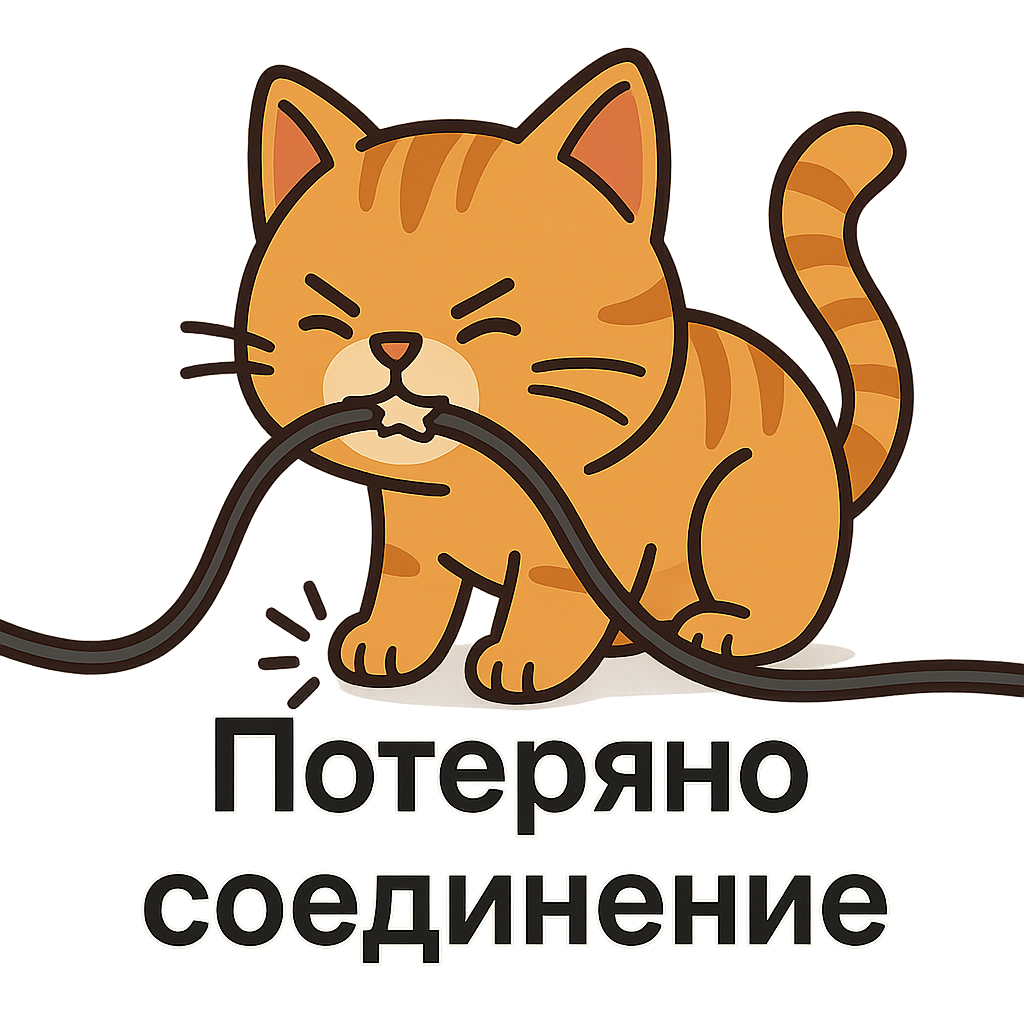
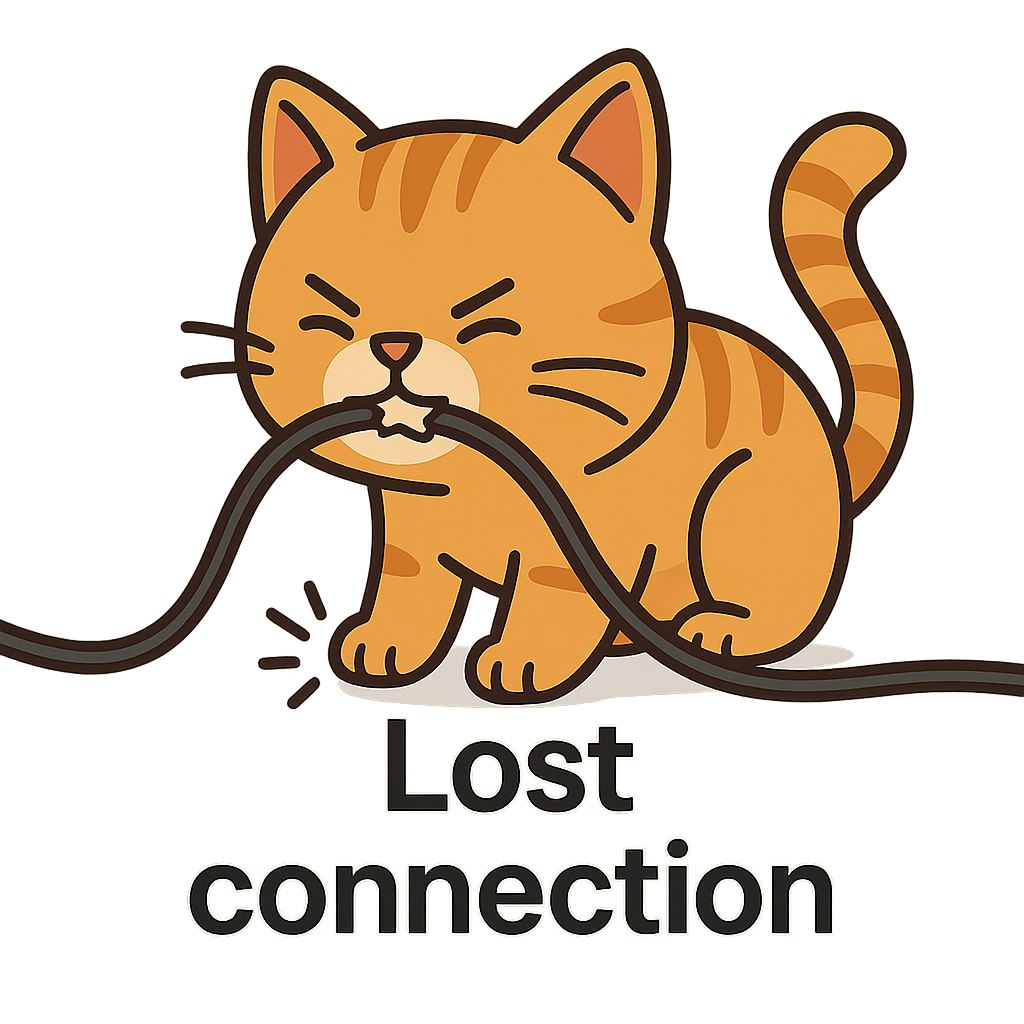
fixes format

diff --git a/test/cat_feed_cubit_test.dart b/test/cat_feed_cubit_test.dart
@@ -22,7 +22,7 @@ void main() {
   late MockWatchLikedCats mockWatchLikedCats;
   late CatFeedCubit cubit;
 
-  final _fakeCat = Cat(
+  final fakeCat = Cat(
     id: 'fake_id_1',
     imageUrl: 'https://example.com/fake.png',
     width: 200,
@@ -31,8 +31,8 @@ void main() {
     breed: null,
   );
 
-  final _fakeLikedCat = LikedCat(
-    cat: _fakeCat,
+  final fakeLikedCat = LikedCat(
+    cat: fakeCat,
     likedAt: DateTime(2025, 6, 5, 12, 0, 0),
   );
 
@@ -78,7 +78,7 @@ void main() {
       final emitted = <CatFeedState>[];
       final sub = cubit.stream.listen(emitted.add);
 
-      controller.add([_fakeLikedCat, _fakeLikedCat]);
+      controller.add([fakeLikedCat, fakeLikedCat]);
       await Future.delayed(const Duration(milliseconds: 100));
 
       expect(emitted.last.likes, 2);
@@ -92,7 +92,7 @@ void main() {
     blocTest<CatFeedCubit, CatFeedState>(
       'успешно возвращается кот → [CatFeedLoading, CatFeedLoaded]',
       build: () {
-        when(mockGetRandomCat.call()).thenAnswer((_) async => _fakeCat);
+        when(mockGetRandomCat.call()).thenAnswer((_) async => fakeCat);
         return cubit;
       },
       act: (c) => c.loadNext(),
@@ -128,13 +128,13 @@ void main() {
 
   group('likeCurrent()', () {
     setUp(() {
-      when(mockGetRandomCat.call()).thenAnswer((_) async => _fakeCat);
+      when(mockGetRandomCat.call()).thenAnswer((_) async => fakeCat);
     });
 
     blocTest<CatFeedCubit, CatFeedState>(
       'если current != null и _busy == false, вызывается LikeCat и затем один loadNext',
       build: () {
-        when(mockGetRandomCat.call()).thenAnswer((_) async => _fakeCat);
+        when(mockGetRandomCat.call()).thenAnswer((_) async => fakeCat);
         return cubit;
       },
       act: (c) async {
@@ -142,9 +142,8 @@ void main() {
         clearInteractions(mockLikeCat);
         clearInteractions(mockGetRandomCat);
 
-        when(mockLikeCat.call(_fakeCat))
-            .thenAnswer((_) async => Future.value());
-        when(mockGetRandomCat.call()).thenAnswer((_) async => _fakeCat);
+        when(mockLikeCat.call(fakeCat)).thenAnswer((_) async => Future.value());
+        when(mockGetRandomCat.call()).thenAnswer((_) async => fakeCat);
 
         await c.likeCurrent();
       },
@@ -156,7 +155,7 @@ void main() {
         isA<CatFeedLoaded>(),
       ],
       verify: (_) {
-        verify(mockLikeCat.call(_fakeCat)).called(1);
+        verify(mockLikeCat.call(fakeCat)).called(1);
         verify(mockGetRandomCat.call()).called(1);
       },
     );
@@ -164,13 +163,13 @@ void main() {
 
   group('dislikeCurrent()', () {
     setUp(() {
-      when(mockGetRandomCat.call()).thenAnswer((_) async => _fakeCat);
+      when(mockGetRandomCat.call()).thenAnswer((_) async => fakeCat);
     });
 
     blocTest<CatFeedCubit, CatFeedState>(
       'если current != null и _busy == false, вызывается DislikeCat и затем один loadNext',
       build: () {
-        when(mockGetRandomCat.call()).thenAnswer((_) async => _fakeCat);
+        when(mockGetRandomCat.call()).thenAnswer((_) async => fakeCat);
         return cubit;
       },
       act: (c) async {
@@ -178,8 +177,10 @@ void main() {
         clearInteractions(mockDislikeCat);
         clearInteractions(mockGetRandomCat);
 
-        when(mockDislikeCat.call(_fakeCat)).thenAnswer((_) async {});
-        when(mockGetRandomCat.call()).thenAnswer((_) async => _fakeCat);
+        when(mockDislikeCat.call(fakeCat)).thenAnswer((_) async {
+          return;
+        });
+        when(mockGetRandomCat.call()).thenAnswer((_) async => fakeCat);
 
         await c.dislikeCurrent();
       },
@@ -191,7 +192,7 @@ void main() {
         isA<CatFeedLoaded>(),
       ],
       verify: (_) {
-        verify(mockDislikeCat.call(_fakeCat)).called(1);
+        verify(mockDislikeCat.call(fakeCat)).called(1);
         verify(mockGetRandomCat.call()).called(1);
       },
     );

diff --git a/lib/presentation/screens/home_screen.dart b/lib/presentation/screens/home_screen.dart
@@ -1,3 +1,5 @@
+import 'dart:async';
+
 import 'package:catinder/presentation/cubits/cat_feed_cubit.dart';
 import 'package:catinder/presentation/cubits/connectivity_cubit.dart';
 import 'package:flutter/material.dart';
@@ -20,6 +22,7 @@ class _HomeScreenState extends State<HomeScreen>
   late final AnimationController _heartCtrl;
   late final Animation<double> _heartAnim;
   int _prevLikes = 0;
+  StreamSubscription<ConnectivityStatus>? _connectivitySub;
 
   @override
   void initState() {
@@ -43,12 +46,17 @@ class _HomeScreenState extends State<HomeScreen>
     ]).animate(_heartCtrl);
 
     WidgetsBinding.instance.addPostFrameCallback((_) {
-      context.read<ConnectivityCubit>().stream.listen((status) {
+      final connectivityCubit = context.read<ConnectivityCubit>();
+      final catFeedCubit = context.read<CatFeedCubit>();
+
+      _connectivitySub = connectivityCubit.stream.listen((status) {
+        if (!mounted) return;
+
         if (status == ConnectivityStatus.offline) {
-          _showSnackBar(message: 'Нет соединения с интернетом');
+          _showSnackBar(message: 'Internet connection lost');
         } else {
-          _showSnackBar(message: 'Соединение восстановлено');
-          context.read<CatFeedCubit>().loadNext();
+          _showSnackBar(message: 'Connection restored');
+          catFeedCubit.loadNext();
         }
       });
     });
@@ -57,10 +65,13 @@ class _HomeScreenState extends State<HomeScreen>
   @override
   void dispose() {
     _heartCtrl.dispose();
+    _connectivitySub?.cancel();
     super.dispose();
   }
 
   void _showSnackBar({required String message}) {
+    if (!mounted) return;
+
     final messenger = ScaffoldMessenger.of(context);
     messenger
       ..hideCurrentSnackBar()
@@ -143,6 +154,8 @@ class _HomeScreenState extends State<HomeScreen>
           else
             BlocConsumer<CatFeedCubit, CatFeedState>(
               listener: (context, state) {
+                if (!mounted) return;
+
                 if (state.likes > _prevLikes) {
                   _heartCtrl.forward().then((_) => _heartCtrl.reset());
                 }
@@ -268,7 +281,7 @@ class _HomeScreenState extends State<HomeScreen>
             ),
             const SizedBox(height: 24),
             const Text(
-              'Потеряно соединение с интернетом',
+              'Network connection lost',
               style: TextStyle(
                 fontSize: 18,
                 fontWeight: FontWeight.bold,
@@ -277,7 +290,7 @@ class _HomeScreenState extends State<HomeScreen>
             ),
             const SizedBox(height: 12),
             const Text(
-              'Пожалуйста, проверьте ваше интернет-соединение и нажмите «Retry».',
+              'Please, check your network-connection and tap «Retry».',
               style: TextStyle(fontSize: 16, color: Colors.grey),
               textAlign: TextAlign.center,
             ),

diff --git a/test/liked_cat_cubit_test.dart b/test/liked_cat_cubit_test.dart
@@ -18,7 +18,7 @@ void main() {
   late MockRemoveLike mockRemoveLike;
   late LikedCatsCubit cubit;
 
-  final _cat1 = Cat(
+  final cat1 = Cat(
     id: 'id1',
     imageUrl: 'https://example.com/cat1.png',
     width: 100,
@@ -27,7 +27,7 @@ void main() {
     breed: null,
   );
 
-  final _cat2 = Cat(
+  final cat2 = Cat(
     id: 'id2',
     imageUrl: 'https://example.com/cat2.png',
     width: 150,
@@ -36,15 +36,15 @@ void main() {
     breed: null,
   );
 
-  final _likedCat1 = LikedCat(cat: _cat1, likedAt: DateTime(2025, 6, 1));
-  final _likedCat2 = LikedCat(cat: _cat2, likedAt: DateTime(2025, 6, 2));
+  final likedCat1 = LikedCat(cat: cat1, likedAt: DateTime(2025, 6, 1));
+  final likedCat2 = LikedCat(cat: cat2, likedAt: DateTime(2025, 6, 2));
 
   setUp(() {
     mockWatchLikedCats = MockWatchLikedCats();
     mockRemoveLike = MockRemoveLike();
 
     when(mockWatchLikedCats.call()).thenAnswer(
-      (_) => Stream.value([_likedCat1, _likedCat2]),
+      (_) => Stream.value([likedCat1, likedCat2]),
     );
 
     cubit = LikedCatsCubit(
@@ -145,7 +145,7 @@ void main() {
         );
 
         when(mockWatchLikedCats.call()).thenAnswer(
-          (_) => Stream.value([_likedCat1, likedCatWithBreed]),
+          (_) => Stream.value([likedCat1, likedCatWithBreed]),
         );
 
         await cubit.close();
@@ -175,11 +175,11 @@ void main() {
         final loaded = cubit.state as LikedCatsLoaded;
         expect(loaded.allCats.length, 2);
 
-        when(mockRemoveLike.call(_cat1.id)).thenAnswer((_) async {});
+        when(mockRemoveLike.call(cat1.id)).thenAnswer((_) async {});
 
-        await cubit.delete(_cat1.id);
+        await cubit.delete(cat1.id);
 
-        verify(mockRemoveLike.call(_cat1.id)).called(1);
+        verify(mockRemoveLike.call(cat1.id)).called(1);
       },
     );
   });

diff --git a/lib/presentation/cubits/connectivity_cubit.dart b/lib/presentation/cubits/connectivity_cubit.dart
@@ -1,4 +1,5 @@
 import 'dart:async';
+import 'dart:developer';
 import 'dart:io';
 import 'package:bloc/bloc.dart';
 import 'package:connectivity_plus/connectivity_plus.dart';
@@ -22,7 +23,7 @@ class ConnectivityCubit extends Cubit<ConnectivityStatus> {
 
     if (!hasInterface) {
       if (state != ConnectivityStatus.offline) {
-        print('[ConnectivityCubit] onChange: $results → offline');
+        log('[ConnectivityCubit] onChange: $results → offline');
         emit(ConnectivityStatus.offline);
       }
       return;
@@ -33,7 +34,7 @@ class ConnectivityCubit extends Cubit<ConnectivityStatus> {
         hasInet ? ConnectivityStatus.online : ConnectivityStatus.offline;
 
     if (state != newStatus) {
-      print('[ConnectivityCubit] onChange: $results + TCP → $newStatus');
+      log('[ConnectivityCubit] onChange: $results + TCP → $newStatus');
       emit(newStatus);
     }
   }
